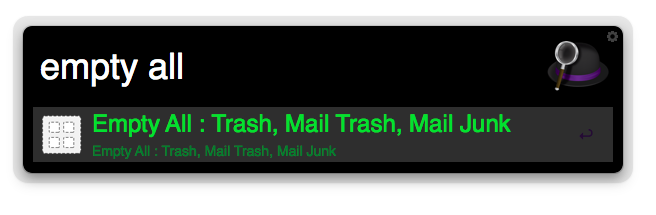
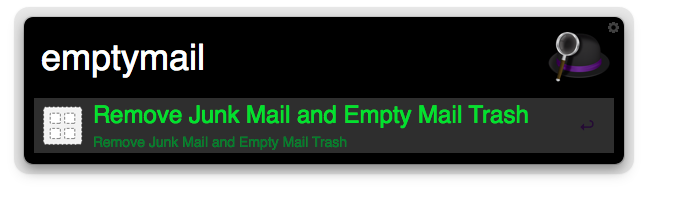
master: new Empty Mail Trash

diff --git a/alfredapp/Workflows/readme.md b/alfredapp/Workflows/readme.md
@@ -24,10 +24,10 @@ Keywords: ios
 
 ### Empty All
 
-This script will move all of your osx junk mail to the trash, empty the osx mail trash, and empty the system trash by [@chrishough](https://github.com/chrishough/).
+This script will move all of your osx junk mail to the trash, and empty the osx mail trash. [@chrishough](https://github.com/chrishough/).
 
 ```
-Keywords: empty all
+Keywords: emptymail
 ```
 
 ![Empty All](https://github.com/chrishough/myconfigurations/raw/master/alfredapp/Workflows/empty-all/empty-all.png)
